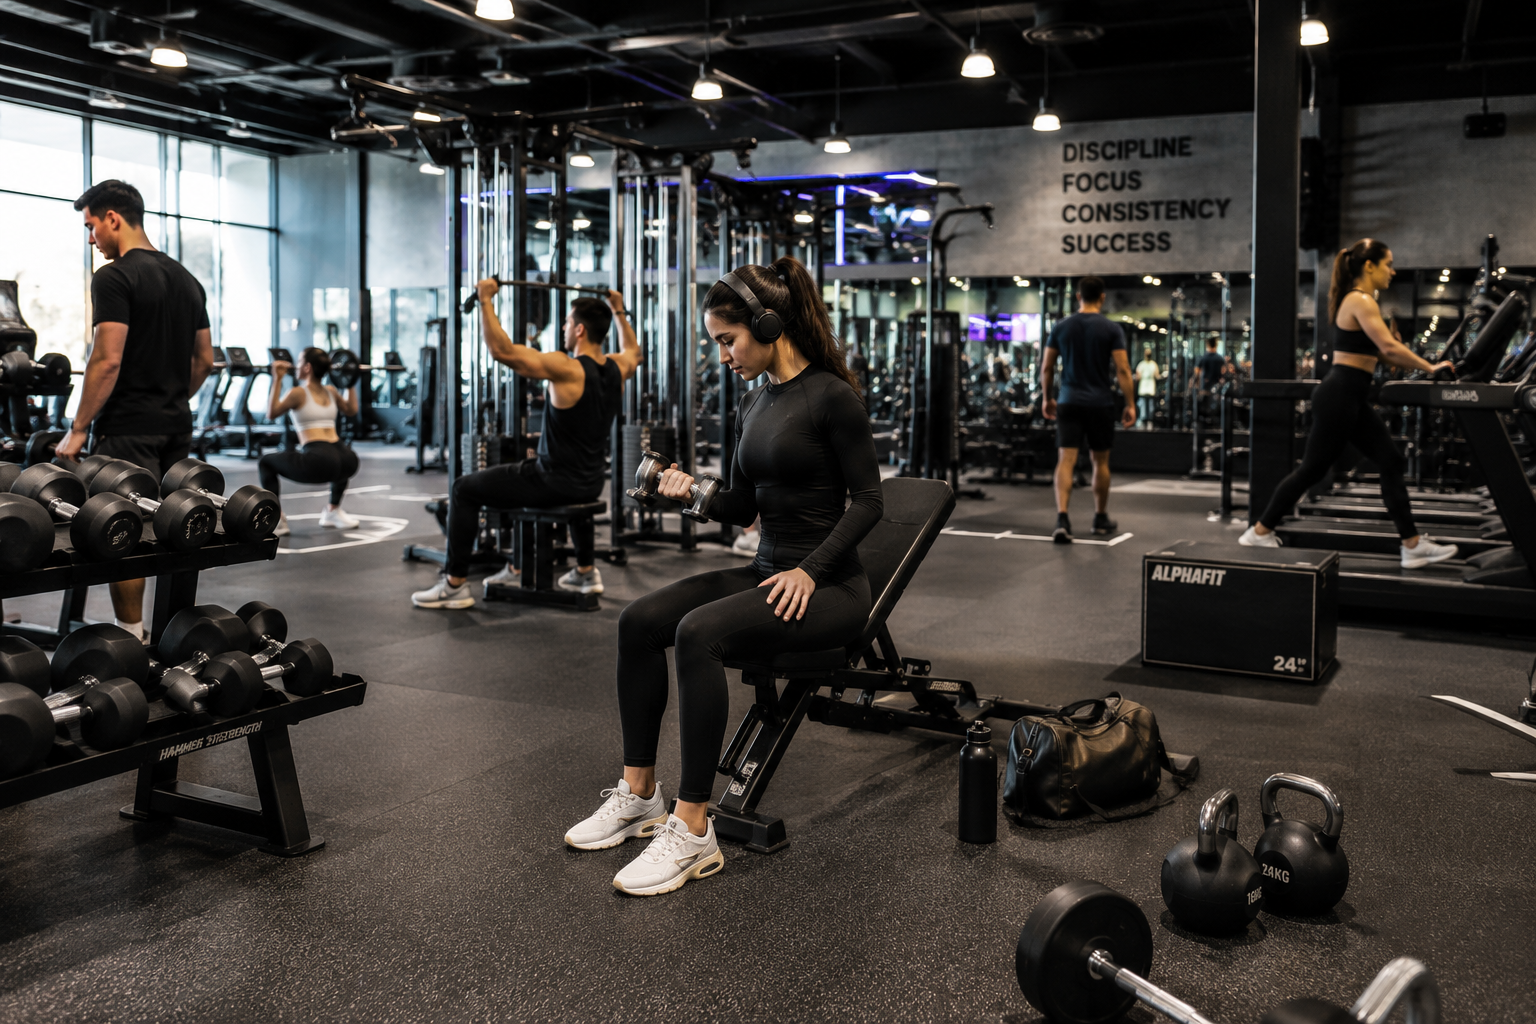
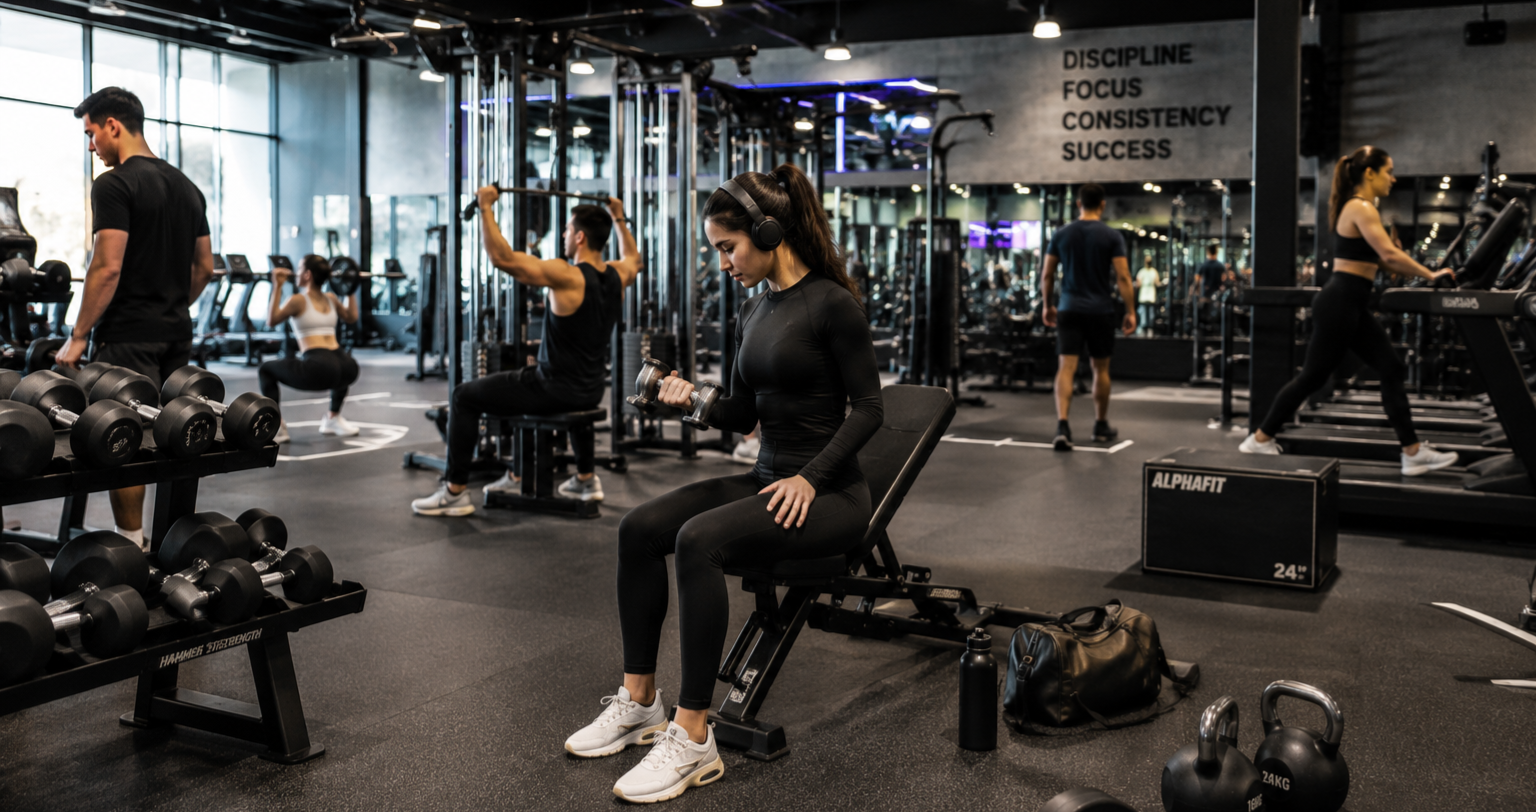
hero img

diff --git a/quotonic/main.css b/quotonic/main.css
@@ -4,7 +4,6 @@
 }
 
 #nav-bar{
-    /* background-color:#e9e9db; */
     height:90px;
     width:100%;
     display:flex;
@@ -14,15 +13,16 @@
 }
 #logo{
     padding:30px;
-    color:#F5F5F5;
-    font-family: Times New Roman, serif;
-    margin-left:7px;
-    font-size:34px;
+    color:rgb(33, 77, 159);
+    font-family:'Poppins', serif;
+    margin-left:19px;
+    font-size:38px;
     
 }
 #btn1{
     height:40px;
     width:80px;
+    opacity:100%;
     position:absolute;
     left:1390px;
     top:28px;
@@ -35,6 +35,7 @@
     display:flex;
     justify-content:center;
     align-items:center;
+    font-family:'Poppins', serif;
     
 }
 #btn2{
@@ -43,12 +44,13 @@
     position:absolute;
     left:1500px;
     top:26px;
+    font-family:'Poppins', serif;
     background-color:rgb(39, 49, 109);
     color:rgb(255, 255, 255);
     text-decoration:none;
     border:1px solid rgb(208, 195, 195);
     border-radius:7px;
-    font-size:15px;
+    font-size:14px;
     display:flex;
     justify-content:center;
     align-items:center;
@@ -58,20 +60,23 @@
     position:absolute;
     left:1300px;
     top:35px;
-    color:rgb(0, 0, 5);
+    color:rgb(0, 0, 13);
 }
 #img-container{
    display:flex;
    flex-direction:column;
    height:100px;
    position:relative;
+   
 }
 #hero{
     
      z-index:0;
      position:absolute;
      width:100%;
-     top:-97px;
+     top:-137px;
+     object-fit:cover;
+     display:block
      
  
 }

diff --git a/quotonic/main.html b/quotonic/main.html
@@ -4,6 +4,10 @@
       <meta charset="UTF-8">
       <meta name="viewport" content="width=device-width, initial-scale=1.0">
       <title>Document</title>
+      <head>
+      <link rel="preconnect" href="https://fonts.googleapis.com">
+      <link rel="preconnect" href="https://fonts.gstatic.com" crossorigin>
+      <link href="https://fonts.googleapis.com/css2?family=Poppins:wght@400;600;700&display=swap" rel="stylesheet">
       <link rel="stylesheet" href="https://cdnjs.cloudflare.com/ajax/libs/font-awesome/6.7.2/css/all.min.css" integrity="sha512-Evv84Mr4kqVGRNSgIGL/F/aIDqQb7xQ2vcrdIwxfjThSH8CSR7PBEakCr51Ck+w+/U6swU2Im1vVX0SVk9ABhg==" crossorigin="anonymous" referrerpolicy="no-referrer" />
       <link rel="stylesheet" href="main.css">
 </head>
